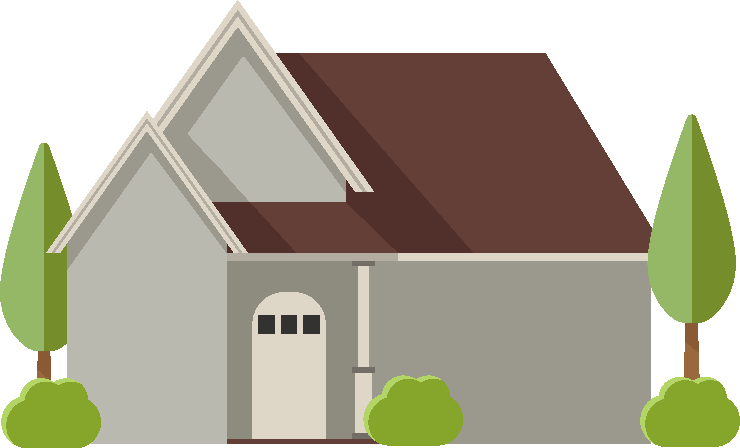
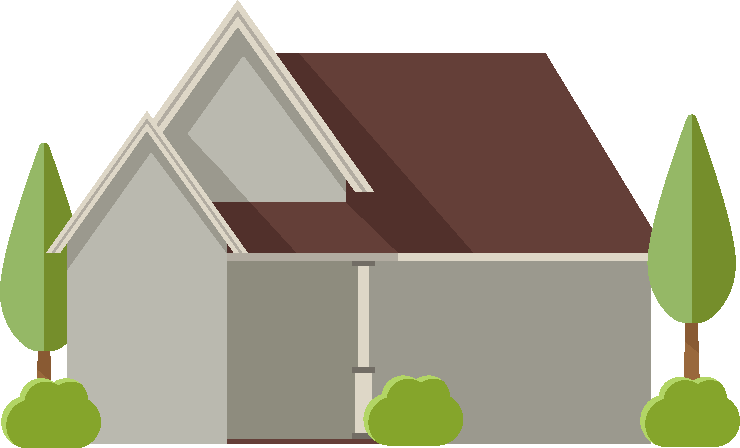
Add door and outside_light to two_story_with_garage

Changed region(s): [[0.3419, 0.625, 0.4662, 1.0]]

diff --git a/themes.js b/themes.js
@@ -2,6 +2,20 @@ export const THEMES = {
   'two_story_with_garage': {
     'house': 'house.png',
     'overlays': {
+      'door': {
+        'on': [
+          {
+            'image': 'door-close.png',
+            'style': { 'width': '10%', 'left': '39%', 'top': '80.5%', 'z-index': '10'},
+          }
+        ],
+        'off': [
+          {
+            'image': 'door-open.png',
+            'style': { 'width': '10%', 'left': '39%', 'top': '80.5%', 'z-index': '10'},
+          },
+        ],
+      },
       'garage': {
         'open': [
           {
@@ -13,6 +27,36 @@ export const THEMES = {
           {
           'image': 'garage-close.png',
           'style': { 'width': '24%', 'left': '74%', 'top': '80%', 'z-index': '10' },
+          },
+        ],
+      },
+      'outside_light': {
+        'on': [
+          {
+            'image': 'outside-light-on.png',
+            'style': { 'width': '9%', 'left': '8%', 'top': '92%', 'z-index': '10' },
+          },
+          {
+            'image': 'outside-light-on.png',
+            'style': { 'width': '9%', 'left': '56%', 'top': '92%', 'z-index': '10' },
+          },
+          {
+            'image': 'outside-light-on.png',
+            'style': { 'width': '9%', 'left': '94%', 'top': '92%', 'z-index': '10' },
+          },
+        ],
+        'off': [
+          {
+            'image': 'outside-light-off.png',
+            'style': { 'width': '9%', 'left': '8%', 'top': '92%', 'z-index': '10' },
+          },
+          {
+            'image': 'outside-light-off.png',
+            'style': { 'width': '9%', 'left': '56%', 'top': '92%', 'z-index': '10' },
+          },
+          {
+            'image': 'outside-light-off.png',
+            'style': { 'width': '9%', 'left': '94%', 'top': '92%', 'z-index': '10' },
           },
         ],
       },

diff --git a/home-card.js b/home-card.js
@@ -6,7 +6,7 @@ const LitElement = Object.getPrototypeOf(
 const html = LitElement.prototype.html;
 const css = LitElement.prototype.css;
 
-const VERSION = 1;
+const VERSION = 2;
 
 // From weather-card
 const fireEvent = (node, type, detail, options) => {

diff --git a/README.md b/README.md
@@ -106,15 +106,17 @@ The following themes and overlays are currently supported:
 
 | Theme | Overlays |
 |------|----------|
-| two_story_with_garage | garage, upstairs_light, downstairs_light, car
+| two_story_with_garage | door, garage, outside_light, upstairs_light, downstairs_light, car
 
 These states are supported by the overlays:
 
 | Overlay | States | Component examples |
 |---------|--------|-----------------------|
 | car | home, not_home | device_tracker
+| door | on, off | E.g. binary_sensor, switch
 | downstairs_lights | on, off | E.g. light, binary_sensor
 | garage | open, closed | cover
+| outside_light | on, off | E.g. light, binary_sensor
 | upstairs_lights | on, off | E.g. light, binary_sensor
 
 You may add additional state mappings using a `state_map` to support other component types, see [Entity object](#entity-object).
